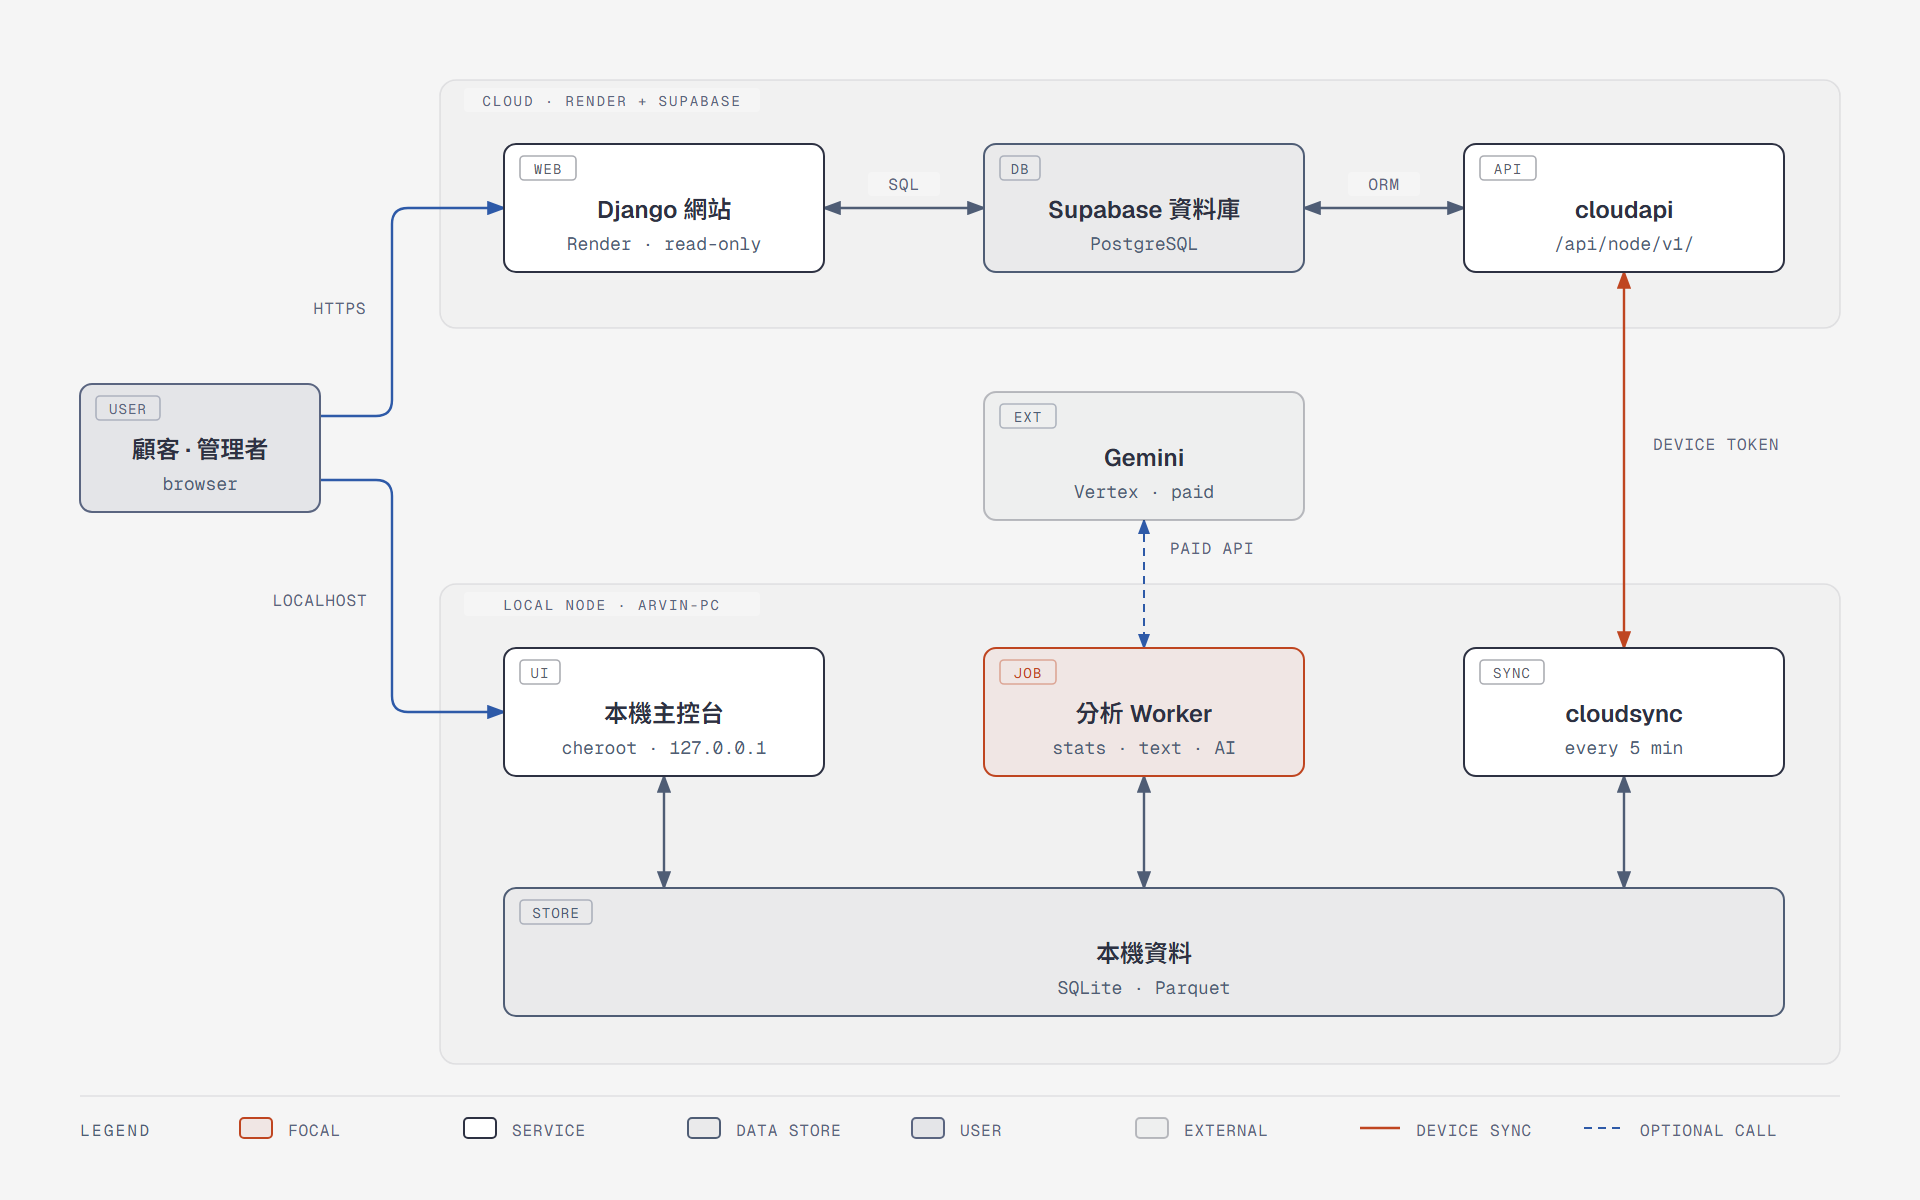
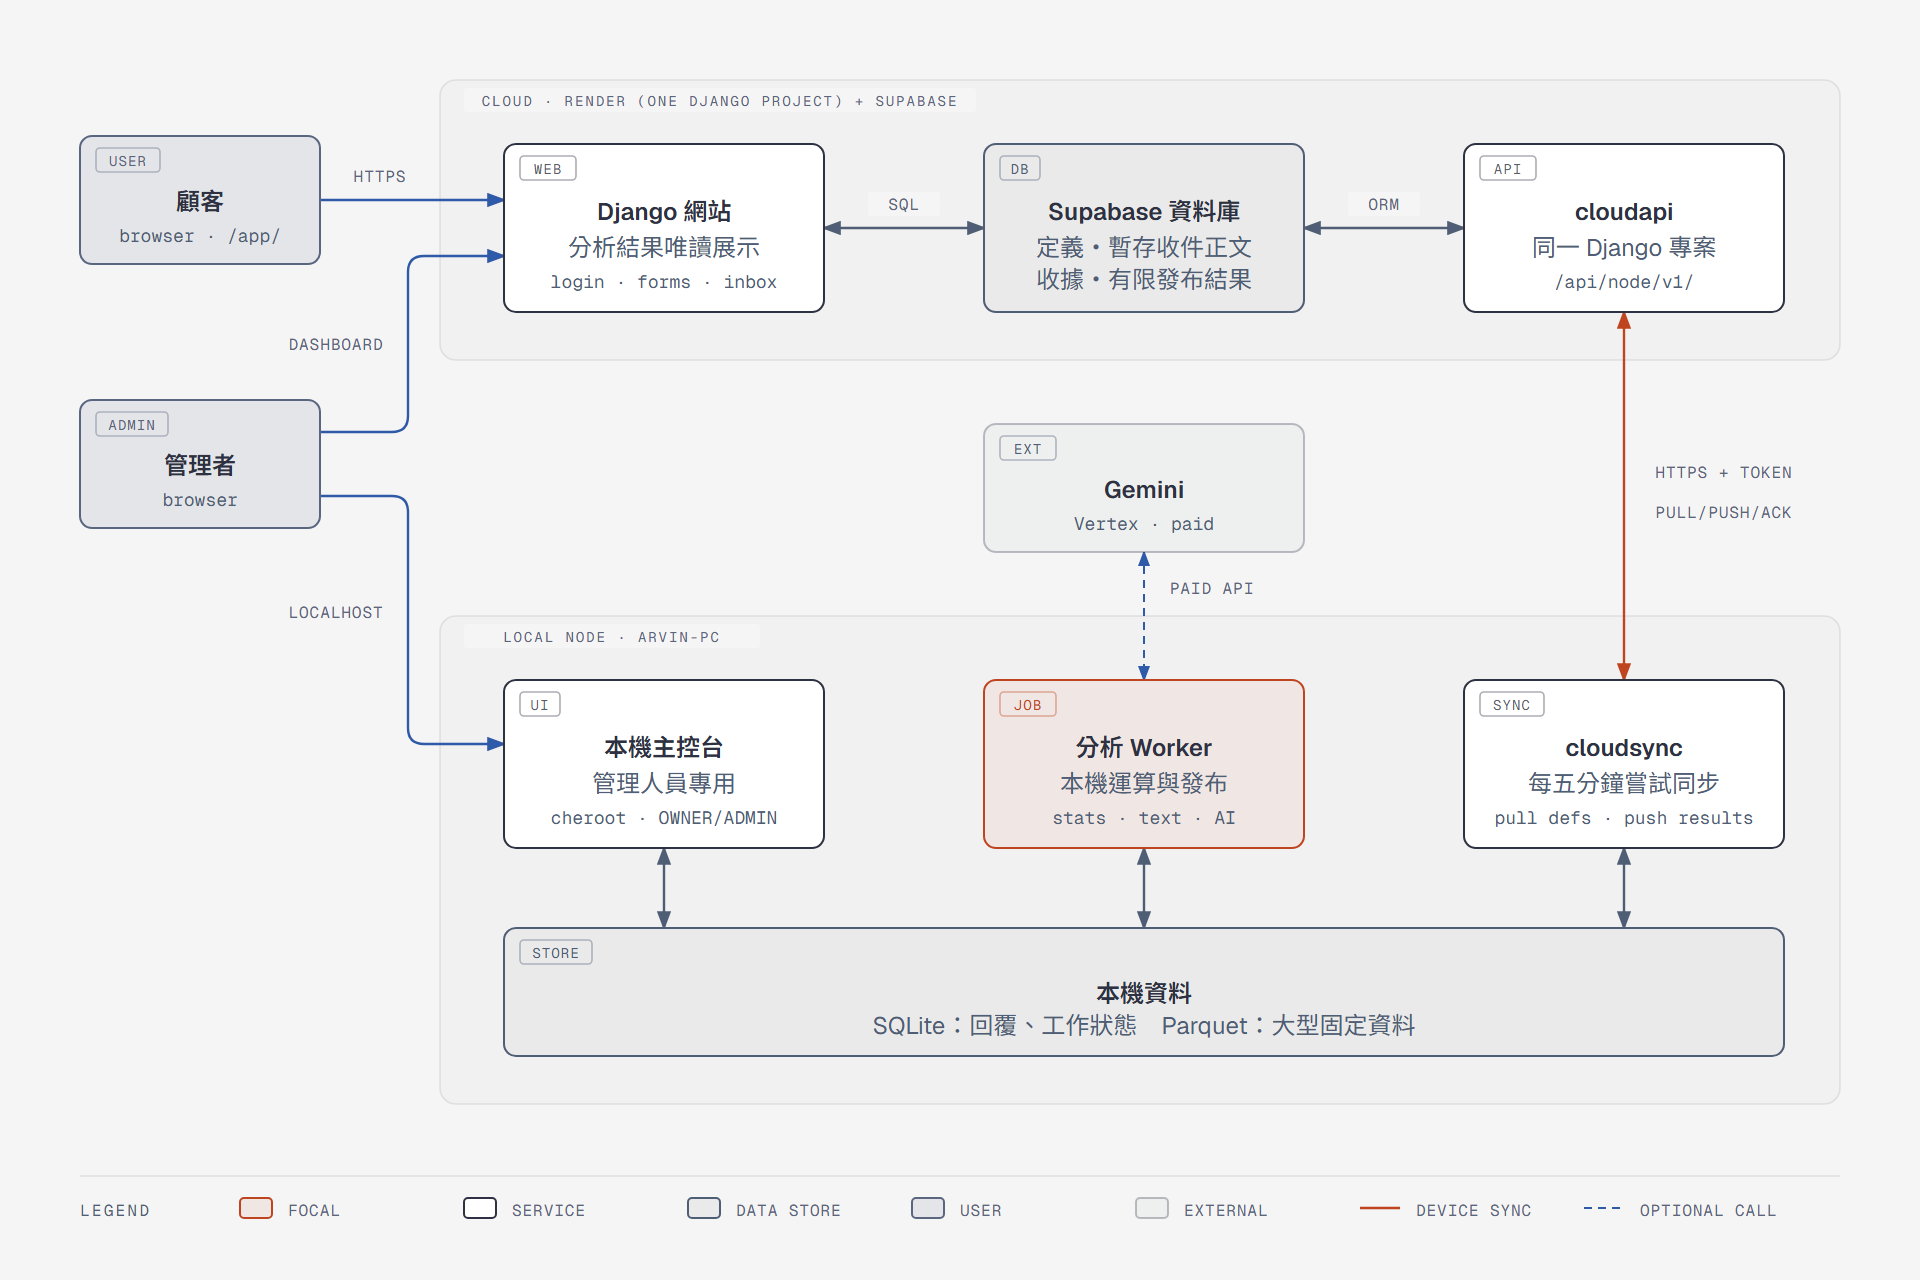
docs: correct roles and sync wording in the architecture diagram
Redraw docs/images/architecture.png after review: customers reach only
the cloud site while managers also use the OWNER/ADMIN-only local
console; the Django site is labelled as read-only for analysis results
(it still handles login, forms and inbox); cloudapi is shown as part of
the same Django project; the sync link reads HTTPS + token and a five
minute retry; Supabase lists what it keeps (definitions, staged inbox
bodies, receipts, limited published results). Add a caption sentence
that a device token identifies the device and does not mean answers
are encrypted.

diff --git a/docs/architecture.md b/docs/architecture.md
@@ -35,7 +35,7 @@
 
 ![Feedback Insight Hub 系統架構：雲端 Render 與 Supabase、本機節點、Gemini 與同步路徑](images/architecture.png)
 
-下方文字圖為簡化版；圖中雲端收件匣（C2）為原型、正式站未開啟，未畫入。
+下方文字圖為簡化版；圖中雲端收件匣（C2）為原型、正式站未開啟，未畫入。裝置權杖只識別裝置，不等於答案已加密。
 
 ```
 Browser
